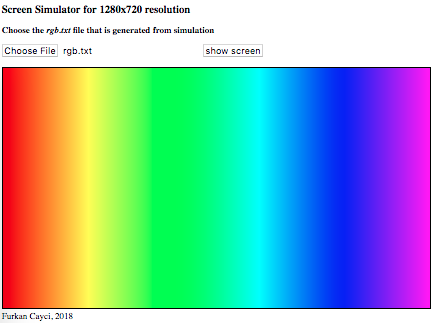
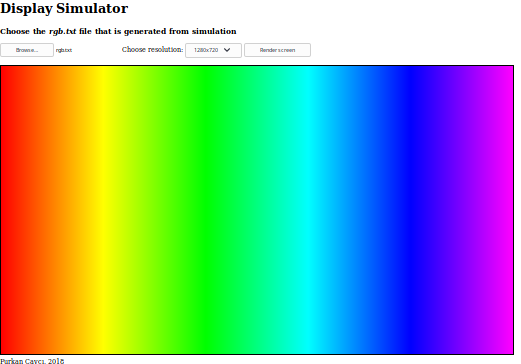
added support for vga and svga timings

diff --git a/display.html b/display.html
@@ -1,18 +1,25 @@
 <!DOCTYPE html>
 <html>
 <head>
-    <title>Screen Simulator</title>
+    <title>Display Simulator</title>
 </head>
 <body>
-    <h1>Screen Simulator for 1280x720 resolution</h1>
+    <h1>Display Simulator</h1>
     <h3>Choose the <i>rgb.txt</i> file that is generated from simulation</h3>
     <input type="file">
-    <button id="simulate">show screen</button>
+    Choose resolution:
+    <select id="res">
+        <option value="1280x720">1280x720</option>
+        <option value="800x600">800x600</option>
+        <option value="640x480">640x480</option>
+    </select>
+    <button id="simulate">Render screen</button>
     <br />
     <br />
-    <canvas id="canvas" width="1280" height="720" style="border:4px solid #000000;"></canvas>
+    <canvas id="canvas" style="border:4px solid #000000;"></canvas>
 
     <script>
+    var resolution = document.getElementById('res');
     document.getElementById("simulate").addEventListener("click", function() {
         var reader = new FileReader();
             reader.addEventListener('load', function() {
@@ -21,8 +28,24 @@
         reader.readAsText(document.querySelector('input').files[0]);
     });
 
+    function getSelectedOption(sel) {
+        var opt;
+        for ( var i = 0, len = sel.options.length; i < len; i++ ) {
+            opt = sel.options[i];
+            if ( opt.selected === true ) {
+                break;
+            }
+        }
+        return opt;
+    }
+
     function draw(file) {
+      var opt = getSelectedOption(resolution);
+      var res = opt.value.split("x");
+
       var canvas = document.getElementById('canvas');
+      canvas.width = Number(res[0]);
+      canvas.height = Number(res[1]);
       if (canvas.getContext) {
         var ctx = canvas.getContext('2d');
         var x = 0;
@@ -31,9 +54,11 @@
         var g = 0;
         var b = 0;
         var lines = file.split('\n');
-        while (y < 720) {
+
+
+        while (y < Number(res[1])) {
             line = lines[y].split(',');
-            while (x < 1280) {
+            while (x < Number(res[0])) {
                 r = ((line[x]&0xff0000) >> 16);
                 g = ((line[x]&0x00ff00) >> 8);
                 b = (line[x]&0x0000ff);
@@ -49,7 +74,7 @@
 
     </script>
 <footer>
-    Furkan Cayci, 2018
+    Furkan Çaycı, 2018
 </footer>
 </body>
 </html>

diff --git a/README.md b/README.md
@@ -1,8 +1,7 @@
 # vhdl-display-simulator
 
-Screen Display Simulator written in VHDL and JS. Generates RGB pixel data from VHDL simulation and displays the pixels on the browser. Currently only supports 720p resolution (1280x720) and 24-bit RGB data. 
+Screen Display Simulator written in VHDL and JS. Generates RGB pixel data file from VHDL simulation and displays the pixels on the browser. Expects 24-bit RGB data.
 
-Written for FPGA class to quickly tinker with object buffer to pass to HDMI.
 Example output for `pattern_generator.vhd` and `objectbuffer.vhd` are shown below.
 
 ![pattern gen](img/pattern.png) ![object buffer](img/objbuf.png)
@@ -12,9 +11,9 @@ Example output for `pattern_generator.vhd` and `objectbuffer.vhd` are shown belo
 ### Using ISIM
 
 1. create a project and import files in the `rtl` directory. 
-2. add the testbench from `sim` directory and run the testbench for 10 ms.
-3. `rgb.txt` data should be generated under project `sim` folder.
-4. open `display.html` from `impl` folder in your browser, load the generated `rgb.txt` data and hit `show screen` button.
+2. add the testbench from `tb` directory and run the testbench until `vsync` is asserted.
+3. `rgb.txt` data should be generated under project folder.
+4. open `display.html` in your browser, load the generated `rgb.txt` data, choose the resolution and hit `Render screen` button.
 
 ### Using GHDL
 
@@ -23,7 +22,7 @@ NOTE: Windows support is not added yet.
 0. Install GHDL and add it to your path.
 1. run `make` to check VHDL syntax in your code
 2. run `make simulate` to create the RGB data. This runs the `tb_display.vhd` testbench for one full frame. It stores pixel color data per clock when in the active video area. Saves in a file called `rgb.txt`. This will take a couple seconds and will take around ~10MB space.
-3. open `display.html` from `impl` folder in your browser, load `rgb.txt` data and hit `show screen` button.
+3. open `display.html` in your browser, choose the resolution and hit `Render screen` button.
 
 ## Files
 
@@ -33,8 +32,7 @@ NOTE: Windows support is not added yet.
 | -- timing_generator.vhd  : timing generator
 | -- pattern_generator.vhd : color spectrum pattern
 | -- objectbuffer.vhd      : generates objects
-+- sim/
++- tb/
 | -- tb_display.vhd        : generates rgb values for one frame
-+- impl/
-| -- display.html          : HTML / JS code to display the generated rgb data
+-- display.html          : HTML / JS code to display the generated rgb data
 ```
